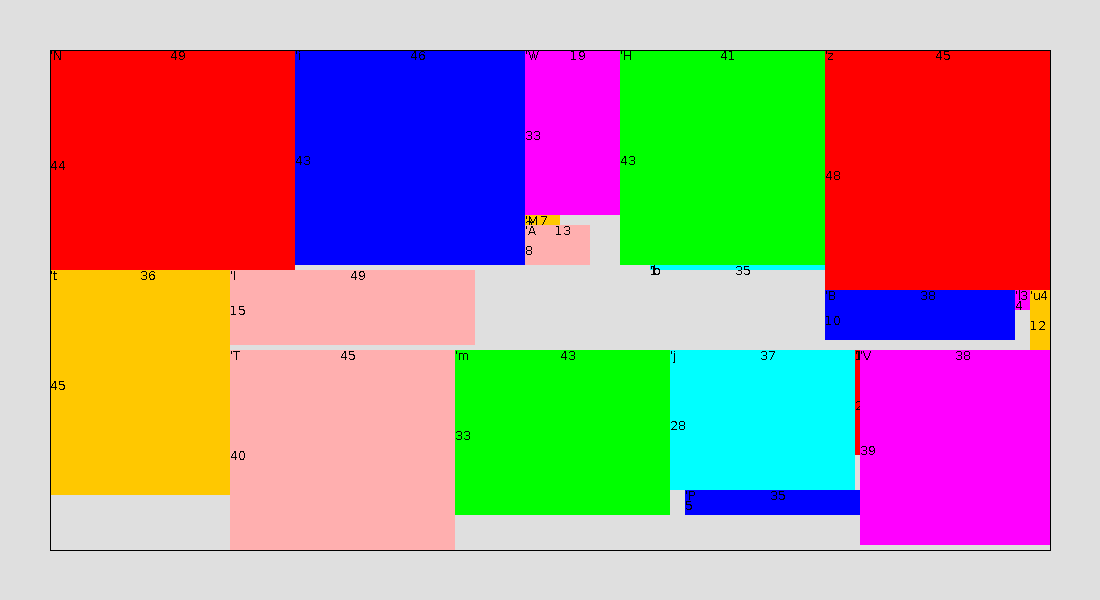
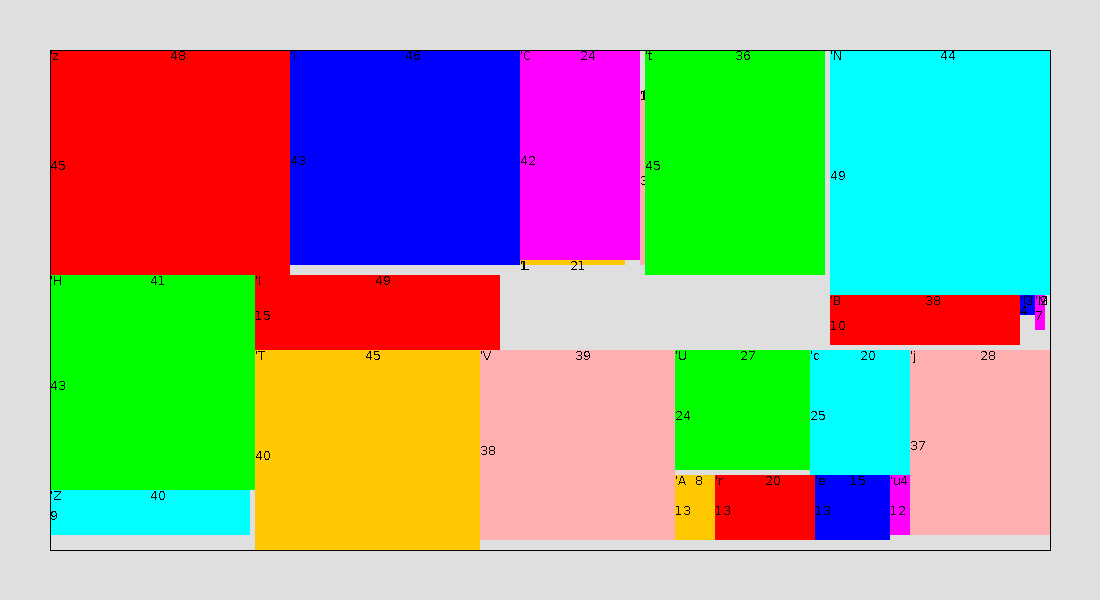
fix Plate#fixed()

diff --git a/package-loading-problem/README.md b/package-loading-problem/README.md
@@ -85,8 +85,7 @@ Linux 3.2.0-27-generic-pae #43-Ubuntu SMP Fri Jul 6 15:06:05 UTC 2012 i686 i686 
         import PLPFrame._
         val p = Packer(boxes)
         val res = p.run(50, 50, 1000)
-        val blank = res.map(x => x.area - x.filled).sum
-        println(blank)
+        res.get.show
         res.map(PLPFrame(_, 5))
 
 隙間の総面積は15。
@@ -100,10 +99,9 @@ Linux 3.2.0-27-generic-pae #43-Ubuntu SMP Fri Jul 6 15:06:05 UTC 2012 i686 i686 
         import PLPFrame._
         val p = Packer(boxes)
         val res = p.run(200, 100, 60 * 1000)
-        val blank = res.map(x => x.area - x.filled).sum
-        println(blank)
+        res.get.show
         res.map(PLPFrame(_, 5))
 
-隙間の総面積は2435。(制限時間1分で打ち切り)
+隙間の総面積は1685。(制限時間1分で打ち切り)
 
-![Alt blank=2435 "z,i,C,L,b,t,N,B,M,l,T,g,Q,D,y,J,U,H,I"](https://raw.github.com/tono-nakae/package-loading-problem/master/Answer2.png)
+![Alt blank=1685 "z,i,C,L,b,t,N,B,l,M,T,V,U,c,r,e,u,A,j,H,Z,I"](https://raw.github.com/tono-nakae/package-loading-problem/master/Answer2.png)
